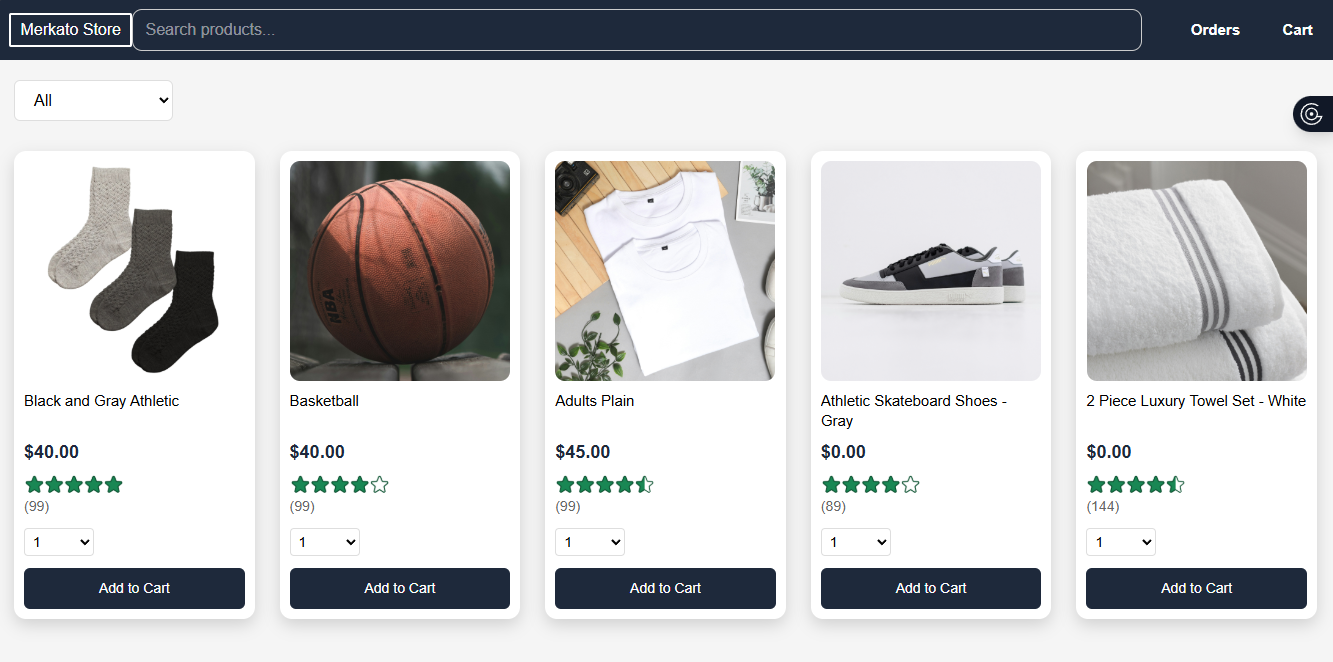
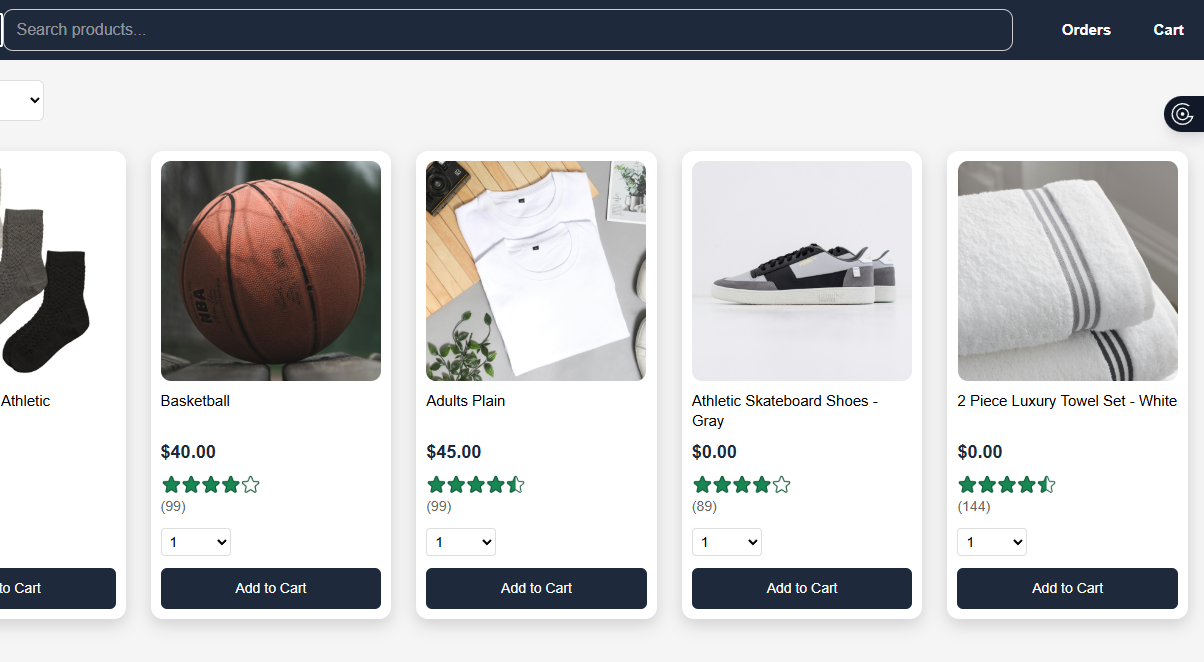
image edited

diff --git a/src/data/portfolio.js b/src/data/portfolio.js
@@ -85,19 +85,19 @@ export const skills = [
     title: "Frontend",
     icon: FiCode,
     items: [
-      { name: "React ", level: 96 },
-      { name: "JavaScript", level: 90 },
-      { name: "Tailwind CSS", level: 94 },
-      { name: "HTML/CSS", level: 86 }
+      { name: "React ", level: 82 },
+      { name: "JavaScript", level: 70 },
+      { name: "Tailwind CSS", level: 64 },
+      { name: "HTML/CSS", level: 90 }
     ]
   },
   {
     title: "Backend",
     icon: FiServer,
     items: [
-      { name: "Node.js", level: 84 },
-      { name: "Python", level: 88 },
-      { name: "Java", level: 82 },
+      { name: "Node.js", level: 70 },
+      { name: "Python", level: 70 },
+      { name: "Java", level: 90 },
       { name: "PHP", level: 78 }
     ]
   },
@@ -105,10 +105,10 @@ export const skills = [
     title: "Database",
     icon: FiDatabase,
     items: [
-      { name: "PostgreSQL", level: 78 },
+      { name: "PostgreSQL", level: 68 },
       { name: "MongoDB", level: 74 },
       { name: "MySQL", level: 80 },
-      { name: "SQL Server", level: 82 }
+      { name: "SQL Server", level: 90 }
     ]
   },
   {